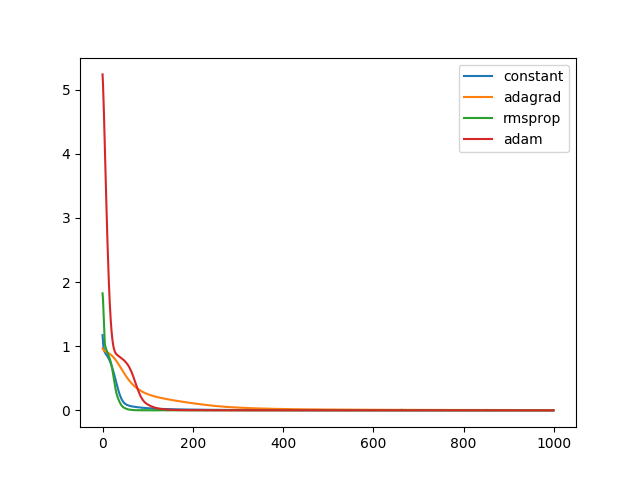
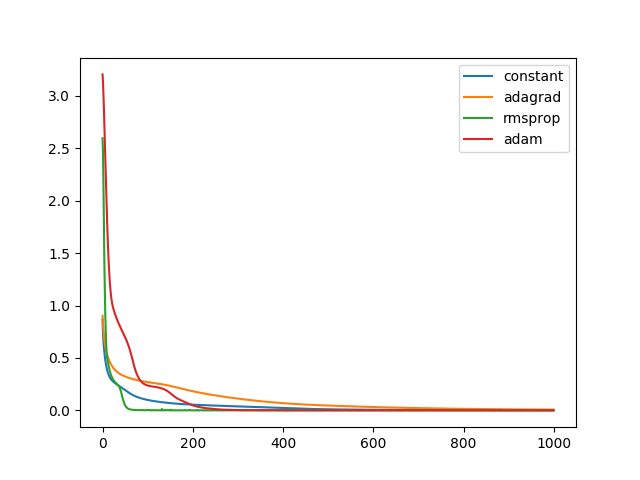
Better initialization of weights.

diff --git a/deep_learning_2/lib/ann.py b/deep_learning_2/lib/ann.py
@@ -19,8 +19,6 @@ class ann:
 
     TODO: logistic output layer for binary classification when K=2
     TODO: measure training time
-
-    TODO: better initialisations of weights (scaling down by n_params)
     TODO: early stopping
     """
 
@@ -71,13 +69,14 @@ class ann:
         self.gW_adj = []
         self.gb_adj = []
         for i in range(self.n_layers - 1):
-            self.W.append(np.random.randn(self.layers_shape[i], self.layers_shape[i + 1]))  # / sqrt(self.n_param))
+            sd = np.sqrt(2 / (self.layers_shape[i] + (self.layers_shape[i+1] if self.activation is not 'relu' else 0)))
+            self.W.append(np.random.randn(self.layers_shape[i], self.layers_shape[i + 1]) / sd)
             self.gW.append(np.zeros((self.layers_shape[i], self.layers_shape[i + 1])))
             self.dW.append(np.zeros((self.layers_shape[i], self.layers_shape[i + 1])))
             self.cache_gW.append(np.ones((self.layers_shape[i], self.layers_shape[i + 1])))
             self.cache_gW2.append(np.ones((self.layers_shape[i], self.layers_shape[i + 1])))
             self.gW_adj.append(np.zeros((self.layers_shape[i], self.layers_shape[i + 1])))
-            self.b.append(np.random.randn(self.layers_shape[i + 1]))  # / sqrt(self.n_param))
+            self.b.append(np.random.randn(self.layers_shape[i + 1]))
             self.gb.append(np.zeros(self.layers_shape[i + 1]))
             self.db.append(np.zeros(self.layers_shape[i + 1]))
             self.cache_gb.append(np.ones(self.layers_shape[i + 1]))
